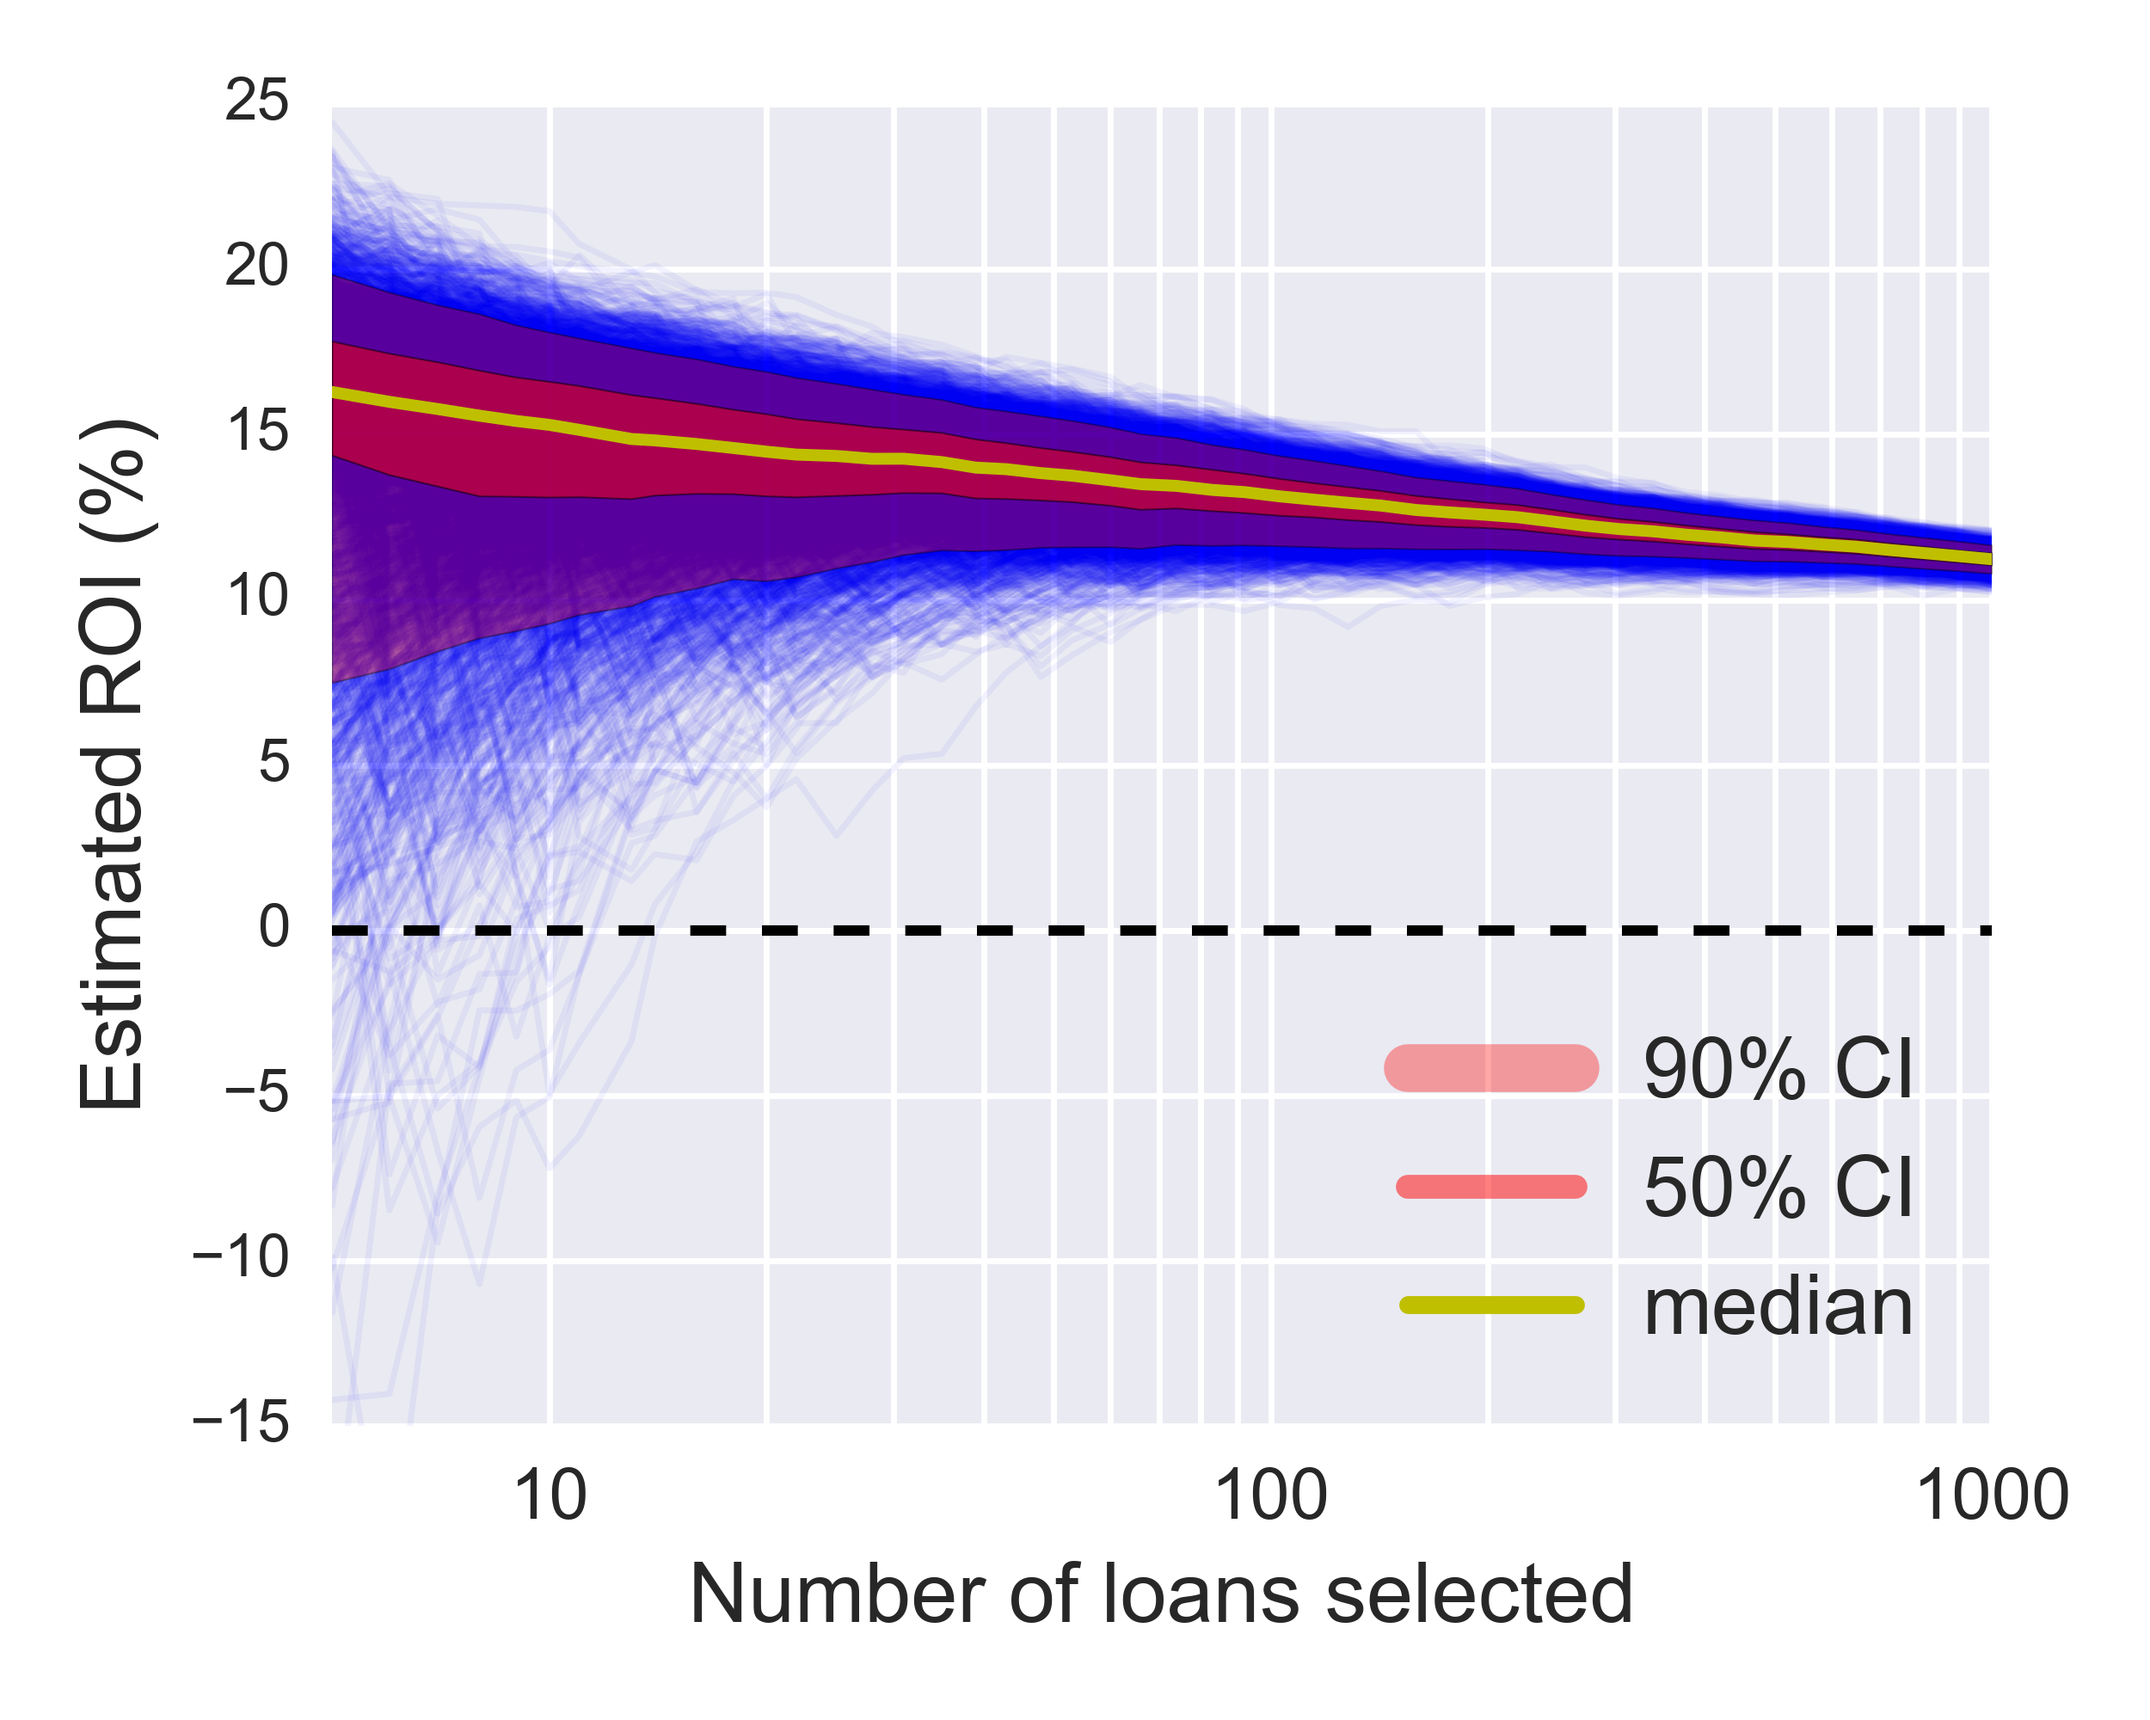
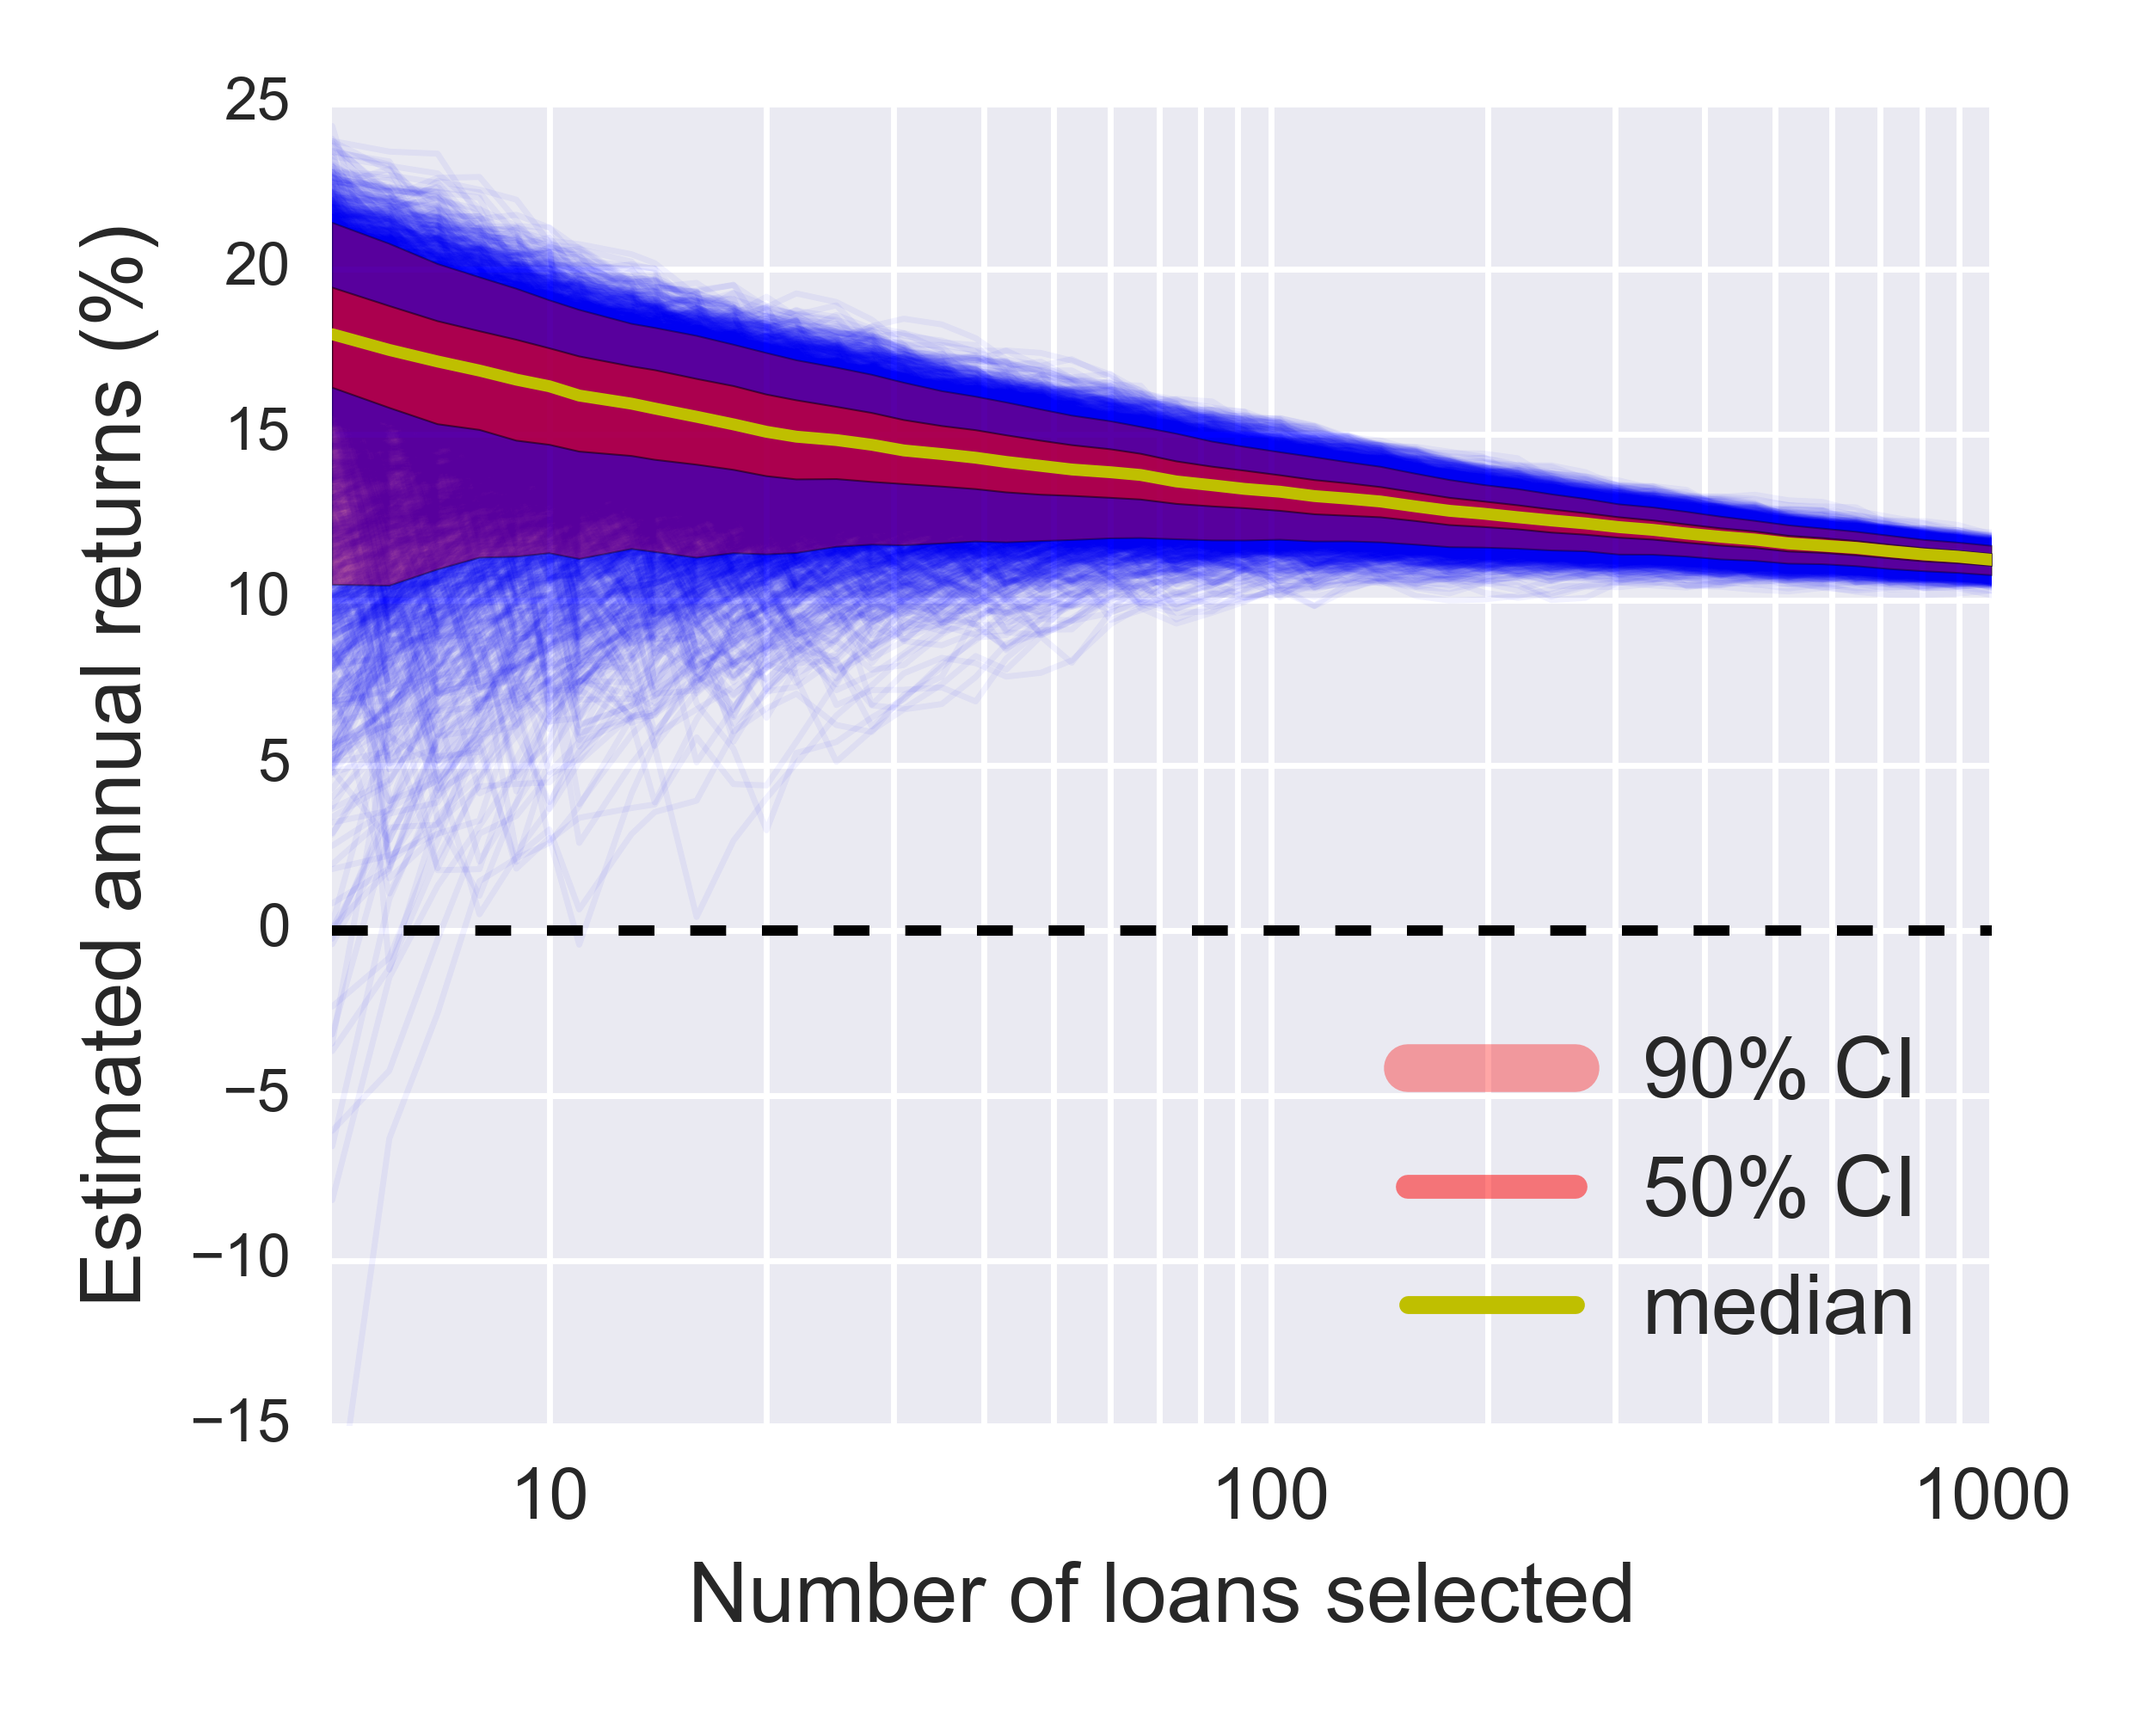
minor fixes on templates

Changed region(s): [[0.156, 0.093, 0.936, 0.651], [0.0312, 0.124, 0.0936, 0.775], [0.2184, 0.589, 0.2496, 0.62]]

diff --git a/templates/models.html b/templates/models.html
@@ -18,7 +18,7 @@
 			<a style="pointer-events: none; cursor: default;" name="Feature Selection">
 			<h2 style="padding-top: 50px; margin-top: -50px;" class="blog-post-title">Feature Selection</h2>
 			</a>
-			<p>There are many other loan features, in addition to borrower location, that we can add to our random forest model. To determine the relative importance of each loan feature we can measure how much the prediction accuracy decreases if we randomly shuffle the values of that loan feature in the test set. This analysis shows that borrower location has relatively low importance compared with some of the loan features more directly associated with a borrower's credit history</p>
+			<p>There are many other loan features, in addition to borrower location, that we can add to our random forest model. To determine the relative importance of each loan feature we can measure how much the prediction accuracy decreases if we randomly shuffle the values of that loan feature in the test set. This analysis shows that borrower location has relatively low importance compared with some of the loan features more directly associated with a borrower's credit history.</p>
 				<img class="img-responsive center-block" src="/static/images/fullRF_feature_imp.png?{{rnum}}" width="600"></img>
 			</div>
 
@@ -34,7 +34,7 @@
 			<a style="pointer-events: none; cursor: default;" name="Grade Returns">
 			<h2 style="padding-top: 50px; margin-top: -50px;" class="blog-post-title">Returns by risk level</h2>
 			</a>
-			<p>Another important questions is the extent to which these models are improving the returns for loans across all risk levels (i.e. loan grades), or whether they are simply telling us to select from the riskier loans which have better average returns. To look at this, we can compare the portfolio returns for different models at each loan grade. Riskier loans (higher grades) do tend to provide better returns overall, but the models substantially improve returns even for loans of a given grade.</p>
+			<p>Another important questions is the extent to which these models are improving the returns for loans across all risk levels (i.e. loan grades), or whether they are simply telling us to select from the riskier loans which have better average returns. To look at this, we can compare the portfolio returns for different models at each loan grade. Riskier loans (lower grades) do tend to provide better returns overall, but the models substantially improve returns even for loans of a given grade.</p>
 			<div class="row">
 				<div class="col-sm-6">
 			<img class="img-responsive center-block" src="/static/images/grade_returns.png?{{rnum}}" width="500"></img>
@@ -49,7 +49,7 @@
 			<a style="pointer-events: none; cursor: default;" name="Time Validation">
 			<h2 style="padding-top: 50px; margin-top: -50px;" class="blog-post-title">Generalizing predictions over time</h2>
 			</a>
-			<p>Traditional K-fold cross-validation, as used above, does not tell us how well our model predictions will generalize to future loans, where the relationship between loan features and outcomes may change. One way to estimate the future performance of the model is to train it on loans issued up to a certain date, and then test its performance on predicting 'future' loan outcomes. Since the marority of loans in the LC data set were recently issued, I chose a slightly different approach, where I trained the model on ~200k loans issued in 2015 (green region below), and then tested the ability of the model to predict loans issued at varying times in the past. This ensured that there was a sufficient number of loans in the training set, while allowing for validation on test sets that were well separated in time from the training set. Somewhat surprisingly, the improved returns provided by selecting loans based on the model predictions were well-preserved when testing on loans as far back as 2010.</p>
+			<p>Traditional K-fold cross-validation, as used above, does not tell us how well our model predictions will generalize to future loans, where the relationship between loan features and outcomes may change. One way to estimate the future performance of the model is to train it on loans issued up to a certain date, and then test its performance on predicting 'future' loan outcomes. Since the majority of loans in the LC data set were recently issued, I chose a slightly different approach, where I trained the model on ~200k loans issued in 2015 (green region below), and then tested the ability of the model to predict loans issued at varying times in the past. This ensured that there was a sufficient number of loans in the training set, while allowing for validation on test sets that were well separated in time from the training set. Somewhat surprisingly, the improved returns provided by selecting loans based on the model predictions were well-preserved when testing on loans as far back as 2010.</p>
 			<img class="img-responsive center-block" src="/static/images/time_validation.png?{{rnum}}" width="800"></img>
 			</div>
 
@@ -60,6 +60,8 @@
 			<p>One of my next steps is to link into the Lending Club API, and show you which loans you should invest in, and what the projected returns are on portfolios of different sizes. For example, here I trained the models on all data up to the latest month, and then estimated the expected returns on loan portfolios of different sizes. Since we can't simply take the model-predicted returns at face value, I estimated the distributions of returns using a bootstrap resampling procedure. Specifically, I randomly assembled loan portfolios where the model-predicted returns were matched to those in the current data. I then used the calculated returns on these resampled portfolios to estimate a distribution of likely returns.</p>
 			<img class="img-responsive center-block" src="/static/images/newloan_predict.png?{{rnum}}" width="600"></img>
 			</div>
+
+			<h2 style="padding-top: 50px; margin-top: -50px; text-align: center;">Take a look at <b>loan-picker.herokuapp.com</b></h2>
 
 		</div>
 

diff --git a/templates/expected_returns.html b/templates/expected_returns.html
@@ -47,7 +47,7 @@
 			</a>
 			<p>For outstanding loans it's more difficult because we don't know what the full payment outcome will be, so we can't directly calculate the NAR. My approach is to use the current status and payment history of each loan to estimate an 'expected' rate of return. To do this I first need to compute the probabiliy that a given loan will go into default at each payment period. These probabilities are described by a 'hazard function', which I estimate for each loan grade, and for each loan term (36 month and 60 month loans).</p>
 
-			<p>I use the Python module <a href="http://lifelines.readthedocs.org/en/latest/">lifelines</a> to estimate the hazard functions. This analysis shows that riskier loans (higher letter grades) are both more likely to default overall, and are more likely to default earlier in the loan term (the hazard functions are shifted leftwards).</p>
+			<p>I use the Python module <a href="http://lifelines.readthedocs.org/en/latest/">lifelines</a> to estimate the hazard functions. This analysis shows that riskier loans (lower letter grades) are both more likely to default overall, and are more likely to default earlier in the loan term (the hazard functions are shifted leftwards).</p>
 			<img src="/static/images/hazard_funs.png" width="900" class="center-block"></img>
 		</div>
 

diff --git a/expected_returns.py b/expected_returns.py
@@ -20,8 +20,8 @@ import LC_loading as LCL
 
 #%%
 data_dir = '/Users/james/Data_Incubator/LC_analysis/Data/'
-fig_dir = '/Users/james/Data_Incubator/LC_app/static/images/'
-temp_data_dir = '/Users/james/Data_Incubator/LC_app/static/data/'
+fig_dir = '/Users/james/Data_Incubator/loan-picker/static/images/'
+temp_data_dir = '/Users/james/Data_Incubator/loan-picker/static/data/'
 
 """
 possible files:  {'LoanStats3a.csv': '2007-2011',
@@ -310,11 +310,12 @@ if print_figs:
   
 #%% total dollar issuance by years
 if print_figs:
+    LD['year'] = LD['issue_d'].dt.year
     last_2015_loan = LD.ix[LD.year==2015,'issue_d'].dt.month.max()
     obs_frac_2015 = last_2015_loan/12.0
     
-    tot_by_year = LD.groupby('year').agg({'funded_amnt':'sum'}) #cuisine-conditional violations counts
-    tot_by_year = tot_by_year/int(1e9)
+    tot_by_year = LD.groupby('year').agg({'funded_amnt':'count'}) #cuisine-conditional violations counts
+    tot_by_year = tot_by_year/int(1e3)
     tot_by_year.ix[2015] = tot_by_year.ix[2015].values/obs_frac_2015
     
     tot_by_year.reset_index(inplace=True)
@@ -322,12 +323,12 @@ if print_figs:
     sns.barplot("year", y="funded_amnt", data=tot_by_year,
                      palette="Blues", ax=ax)
     
-    ax.set_ylabel('Loan issuance (billions USD)',fontsize=16)
+    ax.set_ylabel('Loans issued (thousands)',fontsize=16)
     ax.set_xlabel('Year',fontsize=16)
     locs, labels = plt.xticks()
     plt.setp(labels, rotation=70)
     plt.tight_layout()
-    plt.savefig(fig_dir + 'tot_loan_issuance.png', dpi=500, format='png')
+    plt.savefig(fig_dir + 'tot_loans.png', dpi=500, format='png')
     plt.close()
 
 #%% PLOT EXAMPLE PAYMENT PROB PLOT

diff --git a/estimate_newloan_returns.py b/estimate_newloan_returns.py
@@ -23,7 +23,7 @@ from collections import defaultdict, namedtuple
 import datetime
 
 #base_dir = os.path.dirname(os.path.realpath(__file__))
-base_dir = '/Users/james/Data_Incubator/LC_app'
+base_dir = '/Users/james/Data_Incubator/loan-picker'
     
 sys.path.append(base_dir)
 import LC_helpers as LCH
@@ -225,7 +225,7 @@ plt.plot(poss_choose_K, q_bands.T,'y',lw=2,zorder=10002)
 plt.xscale('log')
 plt.xlim(min(poss_choose_K),max(poss_choose_K))
 plt.xlabel('Number of loans selected',fontsize=14)
-plt.ylabel('Estimated ROI (%)',fontsize=14)
+plt.ylabel('Estimated annual returns (%)',fontsize=14)
 plt.ylim(-15,25)
 plt.axhline(y=0,color='k',ls='dashed')
 ax.set_xticks(np.concatenate((np.arange(10,100,10),np.arange(100,1100,100)),axis=0))
